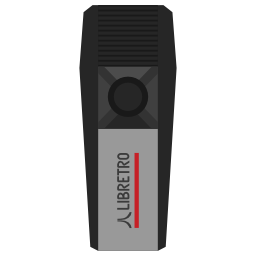
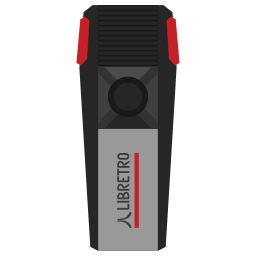
Miscellaneous Changes in Location
Fixed 7800 design flaw.  Moved marked icons from clean directory.
Added README file.

Changed region(s): [[0.625, 0.0625, 0.7188, 0.25], [0.2812, 0.0625, 0.375, 0.25]]

diff --git a/xmb/RetroActive/README.md b/xmb/RetroActive/README.md
@@ -1,0 +1,40 @@
+RetroActive Icon Set
+====================
+
+About RetroActive
+-----------------
+
+While the initial motivation was to complete the “flatui” icons by coloring those in the “monochrome” set, it ended up becoming much more. Every icon has been redrawn and adjusted, and new icons have been added to better complete the set. A white border has been added to ensure they always look great on a dark or light background.
+
+### Clean Icon Set
+
+ * Clean icons do not have logos of any type and best embody the spirit of the original flatui and monochrome icons. In some cases, cartridge/disc label styles have been left in place to increase recognizability. An effort was also made to color-coordinate the label with the system when possible. Unbranded core system-level icons can only be found in this set.
+
+### Marked Icon Set
+
+ * Marked icons contain logos to represent the emulator core and stand-alone application projects. They also contain parody logos for the systems they represent. The labels are designed to mimic the style of the original system while highlighting the adaptive abilities of the Libretro project.  In some cases, the labels vary drastically by region, so multiple icons have been created. Icons for 2048, Cave Story, Dinothawr, DOOM, Dungeon Crawl Stone Soup, FFMpeg, Quake, and ScummVM and branded core system-level icons can only be found in this set.
+
+Guidelines
+----------
+
+### Palette
+
+ * The icons can use a full color palette. They are tied together using a 16px white border.
+ * The use of grayscale is encouraged as a baseline color set.  Once the icon looks great in grayscale, feel free to add color in order to make the icon as recognizable as possible.
+ * Use of gradients is discouraged in favor of maintaining a flat look.
+ * Translucency should be avoided except for anti-aliasing.
+
+### Layout
+
+ * The design should be easily recognizable.
+ * The icons should be centered to a 256x256 grid in both SVG and PNG formats.
+ * The icon must have a 16px white border, effectively reducing the overall icon size to 240x240.
+ 
+### Style
+
+ * The level of detail is expanded beyond the scope of the monochrome set, but favors flat design and recognizability over absolute realism.
+ * Branded icons use a variation of the Libretro brand as the manufacturer and a playful integration into the product name.  For example, the SNK NEO•GEO became the LIB NEO•RETRO.  Logos from the emulation projects are placed similar to third-party publisher logos are placed on a label.
+
+### Export
+
+The PNGs are better exported by the old Inkscape v0.48.5-4. Later versions causes a premultiplied alpha issue with our mipmaping and blending code.
